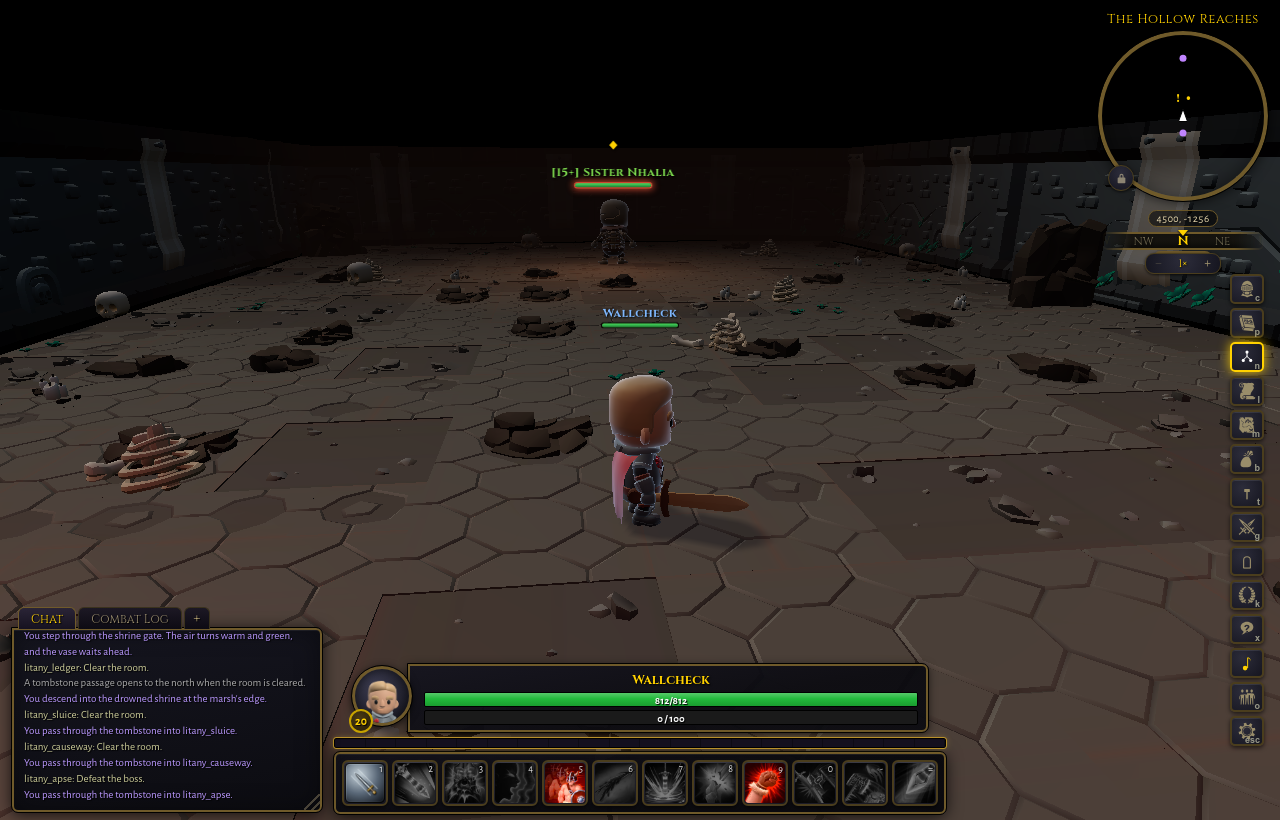
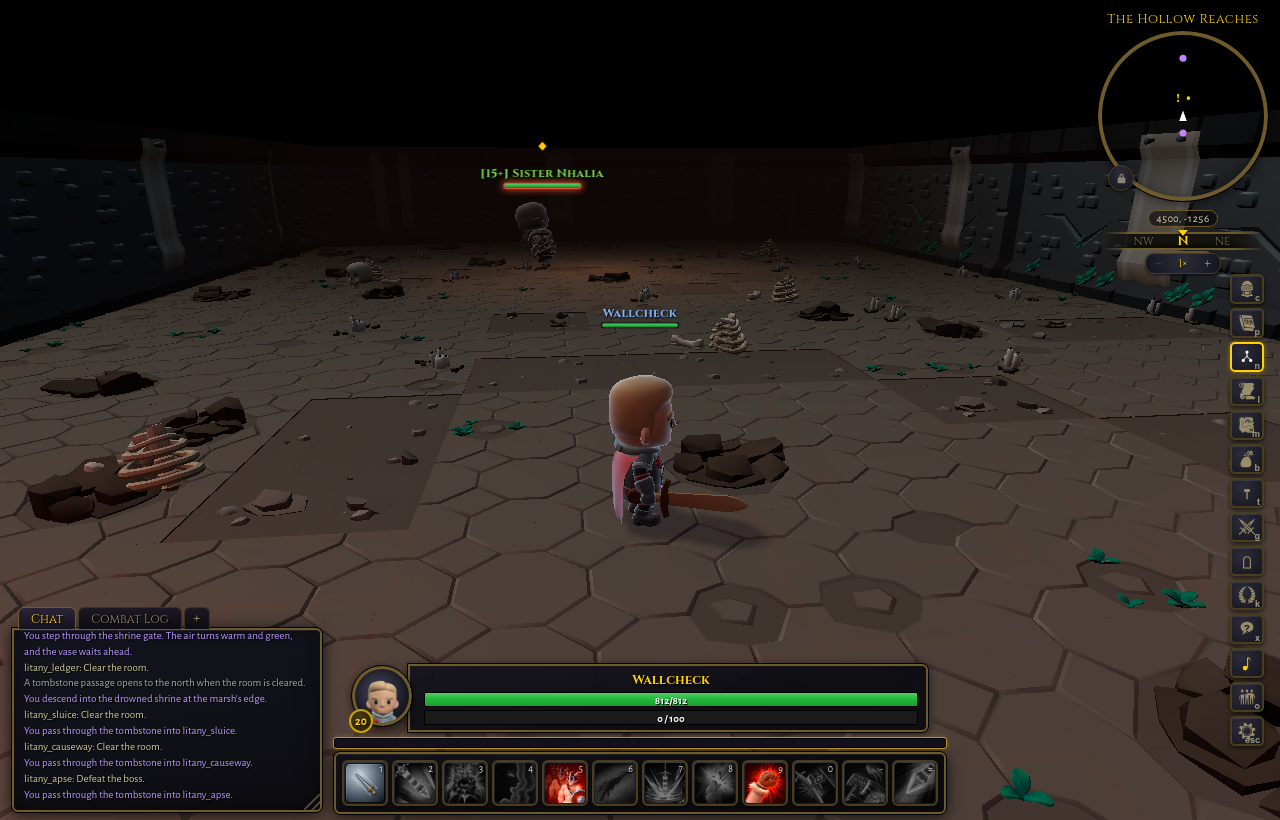
fix(render): floor the whole Litany shell and keep its dressing inside (PHAA-912)
Review follow-ups on the polygon-shell render path.

The floor grid was still sized to the rectangular band, so every polygon room
kept walkable-but-unfloored area where the shell reaches past floorHalfX (the
sluice bow, the ring, the apse) and past zMin/zMax. Grid the polygon's own
bounding box instead, snapped out to whole cells, and let the mask cut it back.
A boundary cell whose center falls outside now still emits the 2x2 sub-tiles
whose own centers are inside, so the edge is floored to within 1u instead of
leaving a standable hole ringing the shell.

Wall dressing and aisle clutter were rectangular too: the rubble corners and the
per-variant edge props are keyed to |x| = 19..22, which lands outside a narrow
shell. Polygon rooms skip that dressing (bespoke Litany dressing is its own
piece of work) and drop any sine-aisle clutter spot outside the outline.

Tests cover floor coverage of the full shell extent, that no emitted tile center
sits outside it, and that every authored shell is counter-clockwise (the winding
placePolygonWalls needs to face modules into the room, which nothing in the sim
normalizes). Recaptured after.png against the corrected floor, and the capture
script now dismisses the cold open by class rather than English button text.

Refs PHAA-912.

diff --git a/src/render/dungeon.ts b/src/render/dungeon.ts
@@ -319,6 +319,30 @@ function hash2(a: number, b: number): number {
   return s - Math.floor(s);
 }
 
+// Floor-cell grid bounds covering a shell polygon: the polygon extent snapped
+// outward to whole FLOOR_CELL steps on a grid anchored at 0, so a cell center
+// exists for every part of the room the sim lets the player stand in.
+function polygonCellBounds(points: ReadonlyArray<{ x: number; z: number }>): {
+  xMin: number;
+  xMax: number;
+  zMin: number;
+  zMax: number;
+} {
+  let xMin = Infinity;
+  let xMax = -Infinity;
+  let zMin = Infinity;
+  let zMax = -Infinity;
+  for (const { x, z } of points) {
+    if (x < xMin) xMin = x;
+    if (x > xMax) xMax = x;
+    if (z < zMin) zMin = z;
+    if (z > zMax) zMax = z;
+  }
+  const snapDown = (v: number) => Math.floor(v / FLOOR_CELL) * FLOOR_CELL;
+  const snapUp = (v: number) => Math.ceil(v / FLOOR_CELL) * FLOOR_CELL;
+  return { xMin: snapDown(xMin), xMax: snapUp(xMax), zMin: snapDown(zMin), zMax: snapUp(zMax) };
+}
+
 type WeightedKinds = [name: string, weight: number][];
 
 function pickKind(kinds: WeightedKinds, t: number): string {
@@ -1055,13 +1079,38 @@ export class DungeonInteriors {
     // are not left with a bare strip between the aisle floor and the side walls.
     const floorHalfX = layout.floorHalfX ?? (layout.wallX ?? DUNGEON_WALL_X) - 1;
     const poly = layout.shellPolygon;
-    for (let z = layout.zMin - 2; z <= layout.zMax + 2; z += FLOOR_CELL) {
-      for (let x = -floorHalfX; x <= floorHalfX; x += FLOOR_CELL) {
+    // A polygon room is not centred on the rectangular band: its bows and
+    // alcoves reach past floorHalfX and past zMin/zMax, so grid the polygon's
+    // own bounding box (snapped out to whole cells) and let the mask below cut
+    // it back. Using the rectangular bounds here would leave walkable-but-
+    // unfloored area inside the shell the player is confined to.
+    const bounds = poly ? polygonCellBounds(poly) : null;
+    const xLo = bounds ? bounds.xMin : -floorHalfX;
+    const xHi = bounds ? bounds.xMax : floorHalfX;
+    const zLo = bounds ? bounds.zMin : layout.zMin - 2;
+    const zHi = bounds ? bounds.zMax : layout.zMax + 2;
+    for (let z = zLo; z <= zHi; z += FLOOR_CELL) {
+      for (let x = xLo; x <= xHi; x += FLOOR_CELL) {
         // Polygon shell: mask the rectangular grid down to the authored room
         // outline (same grid stepping and tile-kind logic, just skip cells
         // whose own center falls outside the polygon). Boundary tiles will
         // stair-step; accepted for this kit.
-        if (poly && !polygonContainsPoint(poly, x, z)) continue;
+        if (poly && !polygonContainsPoint(poly, x, z)) {
+          // Boundary cell: its own center is outside, but part of it is inside
+          // the shell the player is confined to. Fill only the 2x2 sub-tiles
+          // whose own centers are inside, so the edge is floored to within 1u
+          // instead of leaving a standable hole ringing the polygon.
+          if (!poly) continue;
+          for (const dx of [-1, 1]) {
+            for (const dz of [-1, 1]) {
+              if (!polygonContainsPoint(poly, x + dx, z + dz)) continue;
+              const sub = this.floorQuadKind(variant, hash2(x + dx, z + dz));
+              const subRot = Math.floor(hash2(z + dz, x + dx) * 4) * quarter;
+              p.add(sub, x + dx, FLOOR_Y, z + dz, subRot);
+            }
+          }
+          continue;
+        }
         let kind = this.floorKind(variant, hash2(x * 1.31, z));
         if (kind === 'grate' && Math.abs(x) < 4) kind = 'floor_tile_large'; // keep pits off the walk aisle
         if (kind === 'grate') {
@@ -1237,6 +1286,8 @@ export class DungeonInteriors {
     arenaWalls?: PendingArenaWalls,
   ): void {
     if (layout.shellPolygon) {
+      // Polygon rooms are delve modules, never the arena, so the arenaWalls
+      // hide-batching split does not apply: they go into the single sink.
       this.placePolygonWalls(p, layout.shellPolygon, variant);
       return;
     }
@@ -1627,6 +1678,9 @@ export class DungeonInteriors {
       if (variant === 'delve_bell' && (i === 2 || i === 5)) continue;
       if (variant === 'delve_finale' && i > 3) continue;
       if (z > layout.zMax - 4) continue;
+      // Polygon-shell rooms: the sine aisle can wander outside the authored
+      // outline, so drop any clutter whose spot is not inside the shell.
+      if (layout.shellPolygon && !polygonContainsPoint(layout.shellPolygon, x, z)) continue;
       const r = hash2(x, z);
       if (variant === 'bastion') {
         p.add('box_small', x, 0, z, r * Math.PI * 2, 1.2);
@@ -1672,6 +1726,11 @@ export class DungeonInteriors {
       }
       return;
     }
+    // Polygon-shell rooms (Drowned Litany) have no rectangular wall band to hug:
+    // the hardcoded rubble corners and the per-variant edge dressing below are
+    // keyed to |x| = 19..22, which lands outside a narrow shell. Bespoke Litany
+    // dressing is its own piece of work; until then leave the shell clean.
+    if (layout.shellPolygon) return;
     // collapsed masonry in the legacy rubble corners
     const rubble: [number, number][] =
       variant === 'sanctum'

diff --git a/tests/delve_render.test.ts b/tests/delve_render.test.ts
@@ -18,6 +18,7 @@ import {
   polygonWallSegments,
 } from '../src/sim/delve_litany_layout';
 import { DUNGEON_WALK_HALF_X } from '../src/sim/dungeon_layout';
+import { polygonContainsPoint, polygonSignedArea } from '../src/sim/geometry2d';
 
 const FOUR_MODULE_RUN: DelveModuleId[] = [
   'reliquary_sunken_ossuary',
@@ -306,6 +307,64 @@ describe('Litany polygon wall spans', () => {
           rot: segments[i].rot,
         });
       }
+    });
+  }
+});
+
+describe('Litany polygon floor coverage', () => {
+  for (const moduleId of LITANY_MODULE_IDS) {
+    it(`floors ${moduleId} out to its full shell extent`, () => {
+      const layout = DELVE_MODULE_LAYOUTS[moduleId];
+      const points = layout.shellPolygon;
+      if (!points) throw new Error(`${moduleId} must have an authored shell polygon`);
+      const tiles: Array<{ x: number; z: number }> = [];
+      const sink = {
+        add(_kind: string, x: number, _y: number, z: number): void {
+          tiles.push({ x, z });
+        },
+      };
+      const interiors = new DungeonInteriors(new THREE.Scene(), true, [], []);
+      (
+        interiors as unknown as {
+          placeFloor(target: typeof sink, l: typeof layout, variant: string): void;
+        }
+      ).placeFloor.bind(interiors)(sink, layout, 'delve_ossuary');
+
+      expect(tiles.length).toBeGreaterThan(0);
+      // Every part of the shell the sim lets the player stand in must have a
+      // floor tile whose own 4x4 cell reaches it: the tile grid has to span the
+      // polygon, not the narrower rectangular band.
+      const half = 2;
+      const xs = tiles.map((t) => t.x);
+      const zs = tiles.map((t) => t.z);
+      const polyXMin = Math.min(...points.map((pt) => pt.x));
+      const polyXMax = Math.max(...points.map((pt) => pt.x));
+      const polyZMin = Math.min(...points.map((pt) => pt.z));
+      const polyZMax = Math.max(...points.map((pt) => pt.z));
+      expect(Math.min(...xs) - half).toBeLessThanOrEqual(polyXMin);
+      expect(Math.max(...xs) + half).toBeGreaterThanOrEqual(polyXMax);
+      expect(Math.min(...zs) - half).toBeLessThanOrEqual(polyZMin);
+      expect(Math.max(...zs) + half).toBeGreaterThanOrEqual(polyZMax);
+      // and no tile center outside the shell
+      for (const t of tiles) {
+        // every tile, including grate halves and quad sub-tiles, is masked at
+        // its own position, so no emitted tile center may sit outside the shell
+        expect(polygonContainsPoint(points, t.x, t.z), `tile ${t.x},${t.z}`).toBe(true);
+      }
+    });
+  }
+});
+
+describe('Litany shell winding', () => {
+  // placePolygonWalls faces each module into the room with rot = atan2(-dz, dx),
+  // which only holds for counter-clockwise shells. Nothing in the sim normalizes
+  // the authored winding, so pin it here: a clockwise shell would render every
+  // wall and banner facing outward with no other test failing.
+  for (const moduleId of LITANY_MODULE_IDS) {
+    it(`authors ${moduleId} counter-clockwise`, () => {
+      const points = DELVE_MODULE_LAYOUTS[moduleId].shellPolygon;
+      if (!points) throw new Error(`${moduleId} must have an authored shell polygon`);
+      expect(polygonSignedArea(points)).toBeGreaterThan(0);
     });
   }
 });
